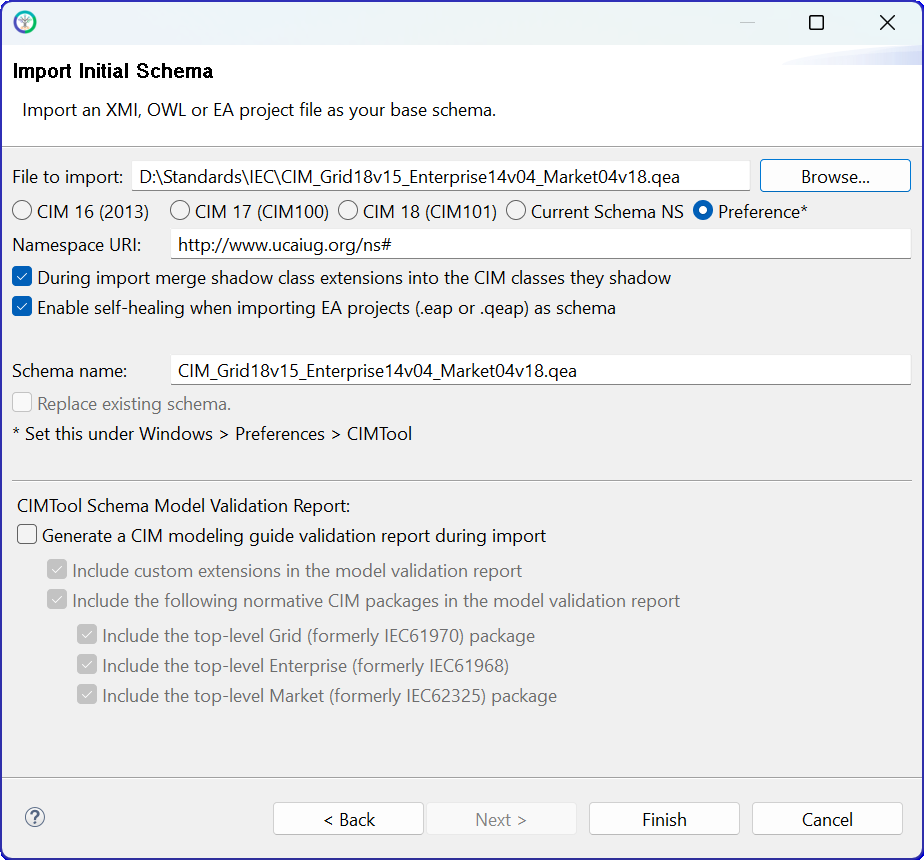
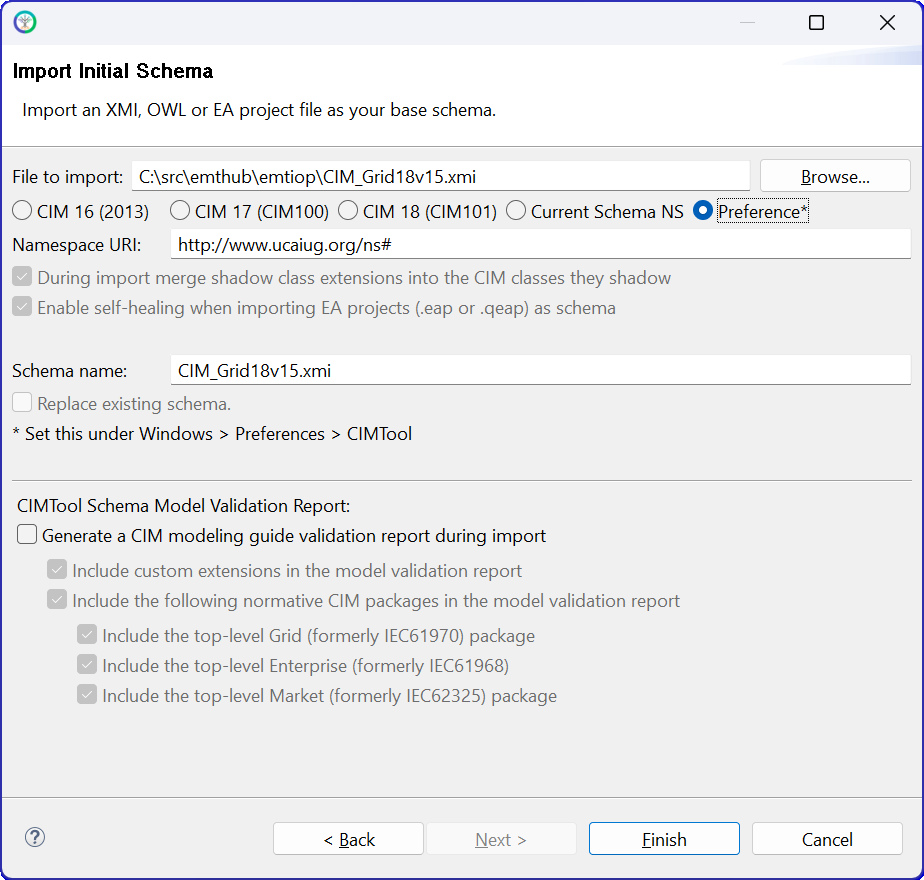
showing CIMTool with two imported XMI files

diff --git a/docs/Roadmap.rst b/docs/Roadmap.rst
@@ -62,6 +62,9 @@ With an ATP installation, you should be able to match the outputs in :ref:`targe
 Profile Maintainers
 -------------------
 
+.. note::
+    To be completed.
+
 This roadmap applies to stakeholders that primarily manage CIM UML and profiles. They do not necessarily run EMT simulations.
 
 #. :ref:`target-roadmap-users` Roadmap is a pre-requisite.
@@ -100,13 +103,13 @@ example instance files against the profile.
 #. Extract the :ref:`target-repository` if you haven't already.
 #. Start *CIMTool*. Version *2.3.0 RC4* was used in this demonstration.
 #. Use the *File/New/CIMTool Project* menu command.
-#. On the page **New CIMTool Project**, name the project *emtioptest*. It will typically create the workspace in *C:\CIMTool-2.3.0-RC4\workspace\emtioptest*. Click *Next >*.
+#. On the page **New CIMTool Project**, name the project *emtioptest*. It will typically create the workspace in *C:\\CIMTool-2.3.0-RC4\\workspace\\emtioptest*. Click *Next >*.
 #. On the page **Project Copyright Templates Configuration**, select the option *Do not include copyrights* and click *Next >*.
 #. On the page **Import Initial Schema**:
 
-   - Browse to the *qea* file containing the base CIM schema. It must include the *Grid18v15* package.
-   - Leave the *Namespace URI* as *http://www.ucauig.org/ns#* with the *Preference* option checked.
-   - Leave the *During import merge shadow class extensions* and *Enable self-healing* options checked. 
+   - Browse to the *CIM_Grid_18v15.xmi* file containing the base CIM schema, which includes the *Grid18v15* package.
+   - Specify the *Namespace URI* as *http://www.ucauig.org/ns#* (check the *Preference* option if necessary).
+   - Leave the *During import merge shadow class extensions* and *Enable self-healing* options checked (these may be grayed out). 
    - Turn off the *CIMTool Schema Model Validation Report*. 
    - The page should look similar to the screen shot below. Click *Finish*.
 
@@ -116,19 +119,19 @@ example instance files against the profile.
 
 .. image:: assets/CIMTool2.png
 
-8. Right-click on the *Schema* item under the *emtioptest* workspace in *Project Explorer*. Click *Import* on the pop-up menu and then select *Import Schema*, as shown below.
+#. Right-click on the *Schema* item under the *emtioptest* workspace in *Project Explorer*. Click *Import* on the pop-up menu and then select *Import Schema*, as shown below.
 
 .. image:: assets/CIMTool3.png
 
-9. Click *Next* to bring up the **Import Schema** page, similar to item 6. Leave the options as before, but browse to *Emtiop.xmi* in your local copy of the GitHub repository. The page should be similar to the screen shot below. Then click *Finish*.
+#. Click *Next* to bring up the **Import Schema** page, similar to item 6. Leave the options as before, but browse to *Emtiop.xmi* in your local copy of the GitHub repository. The page should be similar to the screen shot below. Then click *Finish*.
 
 .. image:: assets/CIMTool4.png
 
-10. **TODO**: resolve the ensuing stack overflow error in *CIMTool*.  See below. The *Project Model* says no information available.  It's necessary to delete the *emtioptest* workspace from the Windows file system. Then *CIMTool* will open the previous *Emtiop* workspace.
+#. The *Project Explorer* and *Project Browser* should reflect the content of both *xmi* files, as shown below.
 
 .. image:: assets/CIMTool5.png
 
-11. **TODO**: open the profile *emtiop.owl*
+#. **TODO**: open the profile *emtiop.owl*
 
 #. **TODO**: check one of the CIM RDF instance files in *CIMTool*
 